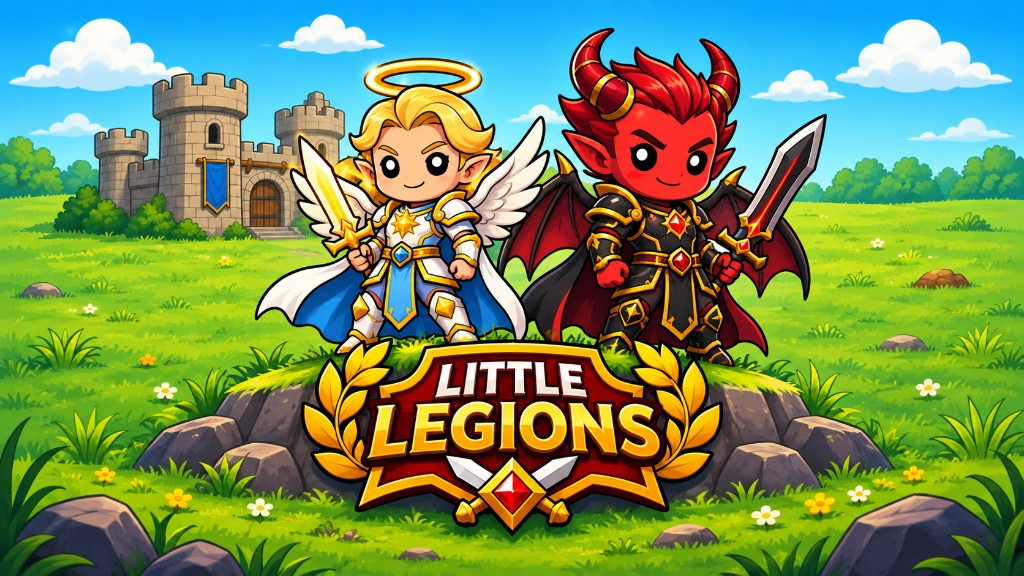
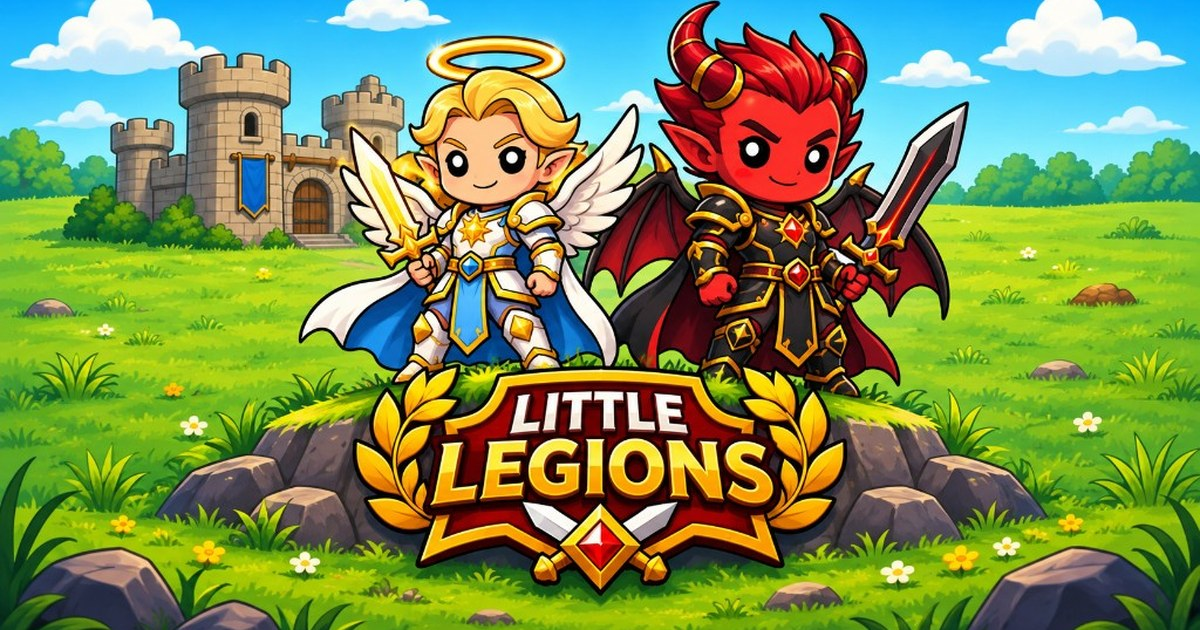
Make the invite preview a full-width image.

diff --git a/docs/index.html b/docs/index.html
@@ -3,23 +3,23 @@
 <head>
   <meta charset="utf-8">
   <meta name="viewport" content="width=device-width, initial-scale=1">
-  <title>Little Legions</title>
-  <meta name="description" content="Join an Order in Little Legions.">
-  <meta property="og:title" content="Little Legions">
-  <meta property="og:description" content="Join an Order in Little Legions.">
+  <title>Order Invitation - Little Legions</title>
+  <meta name="description" content="Open link in Little Legions or download the game.">
+  <meta property="og:title" content="Order Invitation - Little Legions">
+  <meta property="og:description" content="Open link in Little Legions or download the game.">
   <meta property="og:type" content="website">
   <link rel="canonical" href="https://littlelegions.silverspectresoftware.com/">
   <meta property="og:url" content="https://littlelegions.silverspectresoftware.com/">
-  <meta property="og:image" content="https://cdn.jsdelivr.net/gh/Srivatsan2307/LittleLegionsJoin@main/docs/assets/og.jpg?v=2">
-  <meta property="og:image:secure_url" content="https://cdn.jsdelivr.net/gh/Srivatsan2307/LittleLegionsJoin@main/docs/assets/og.jpg?v=2">
+  <meta property="og:image" content="https://cdn.jsdelivr.net/gh/Srivatsan2307/LittleLegionsJoin@main/docs/assets/og.jpg?v=3">
+  <meta property="og:image:secure_url" content="https://cdn.jsdelivr.net/gh/Srivatsan2307/LittleLegionsJoin@main/docs/assets/og.jpg?v=3">
   <meta property="og:image:type" content="image/jpeg">
-  <meta property="og:image:width" content="1024">
-  <meta property="og:image:height" content="576">
+  <meta property="og:image:width" content="1200">
+  <meta property="og:image:height" content="630">
   <meta property="og:image:alt" content="Little Legions">
   <meta name="twitter:card" content="summary_large_image">
-  <meta name="twitter:title" content="Little Legions">
-  <meta name="twitter:description" content="Join an Order in Little Legions.">
-  <meta name="twitter:image" content="https://cdn.jsdelivr.net/gh/Srivatsan2307/LittleLegionsJoin@main/docs/assets/og.jpg?v=2">
+  <meta name="twitter:title" content="Order Invitation - Little Legions">
+  <meta name="twitter:description" content="Open link in Little Legions or download the game.">
+  <meta name="twitter:image" content="https://cdn.jsdelivr.net/gh/Srivatsan2307/LittleLegionsJoin@main/docs/assets/og.jpg?v=3">
   <style>
     html, body { margin: 0; background: #07140c; color: #fff6e0; font-family: Georgia, serif; }
     main { max-width: 640px; margin: 0 auto; padding: 24px 16px 48px; text-align: center; }
